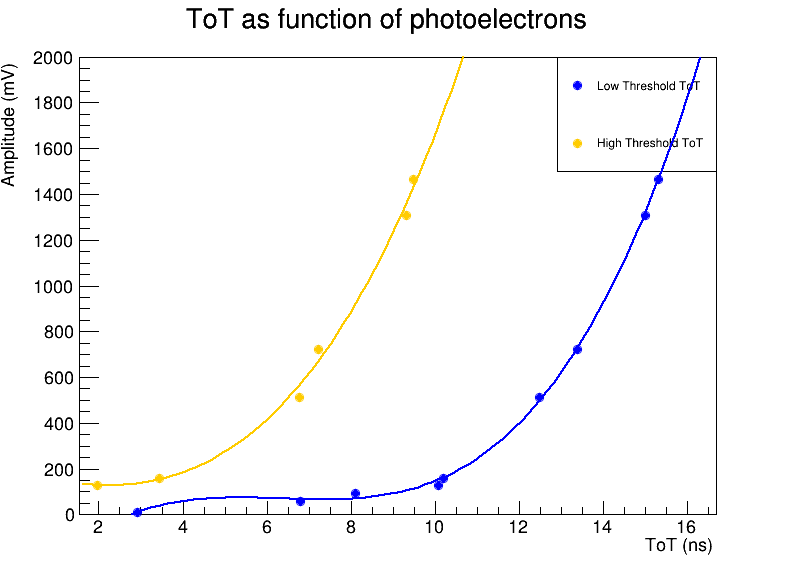
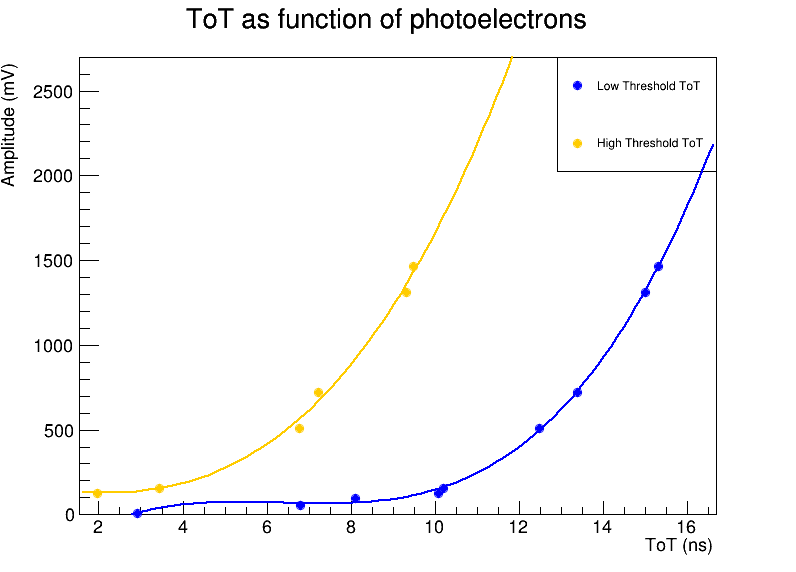
new commit

diff --git a/time_distribution_graph.C b/time_distribution_graph.C
@@ -280,8 +280,8 @@ int main() {
     gr_low->SetTitle("ToT as function of photoelectrons ;ToT (ns);Amplitude (mV)");
     gr_low->SetMarkerStyle(20); // Imposta lo stile dei punti
     gr_low->SetMarkerColor(kBlue);
-    gr_low->GetYaxis()->SetRangeUser(0,2000);
-    gr_low->GetXaxis()->SetRangeUser(0, 20);
+    gr_low->GetYaxis()->SetRangeUser(0,2700);
+    gr_low->GetXaxis()->SetRangeUser(0, 30);
     gr_low->Draw("AP");
 
     // Disegna il secondo grafico sullo stesso canvas
@@ -296,8 +296,8 @@ int main() {
     legend->Draw();
 
     // Esegui il fitting dei dati
-    TF1 *fit_low = new TF1("fit_low", "[0]+[1]*x+[2]*x**2+[3]*x**3", 0, 20); // Fitting con un polinomio di secondo grado
-    TF1 *fit_high = new TF1("fit_high", "[0]+[1]*x+[2]*x**2+[3]*x**3", 0, 20);
+    TF1 *fit_low = new TF1("fit_low", "pol3", 0, 20); // Fitting con un polinomio di secondo grado
+    TF1 *fit_high = new TF1("fit_high", "[0]+[1]*x+[2]*x**2+[3]*x**3", 0, 30);
 
     gr_low->Fit(fit_low,"R");
     gr_high->Fit(fit_high, "R");
@@ -312,7 +312,7 @@ int main() {
     fit_high->Draw("same");
 
     // Salva il grafico in un file
-    c1->SaveAs("N_vs_ToT_fit6.png");
+    c1->SaveAs("N_vs_ToT_fit7.png");
 
     // Pulizia della memoria
     delete gr_low;
